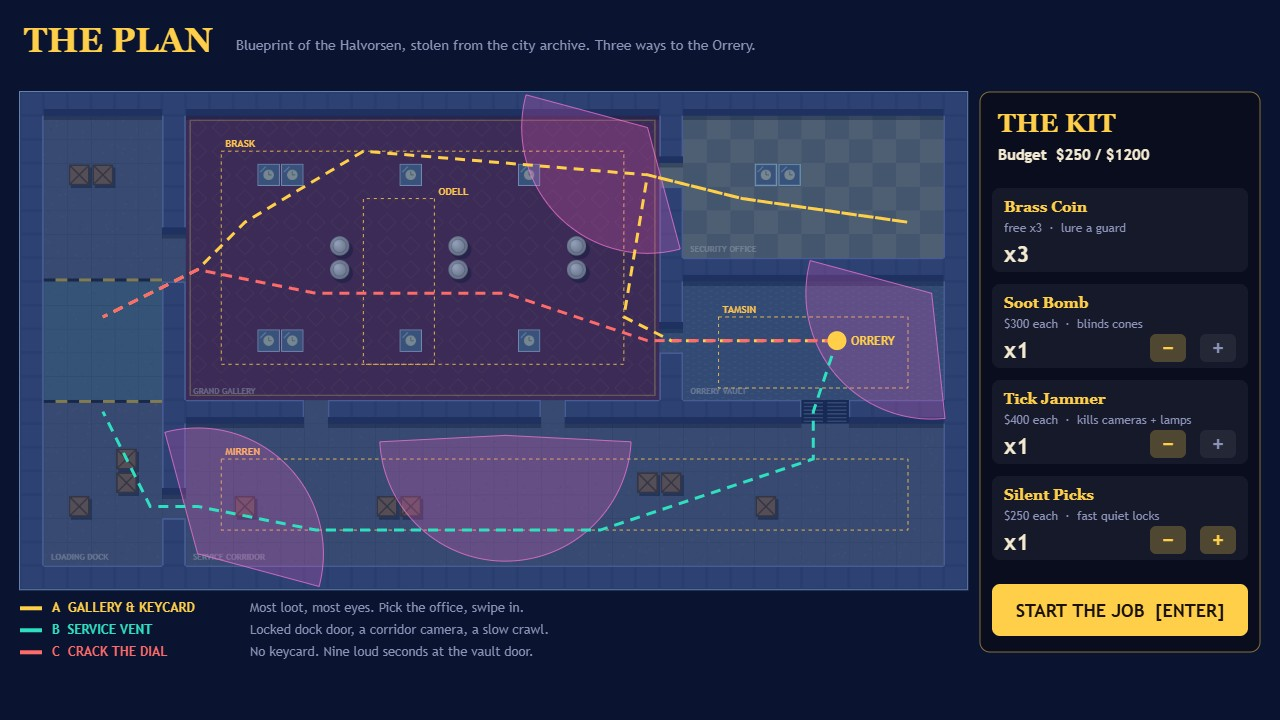
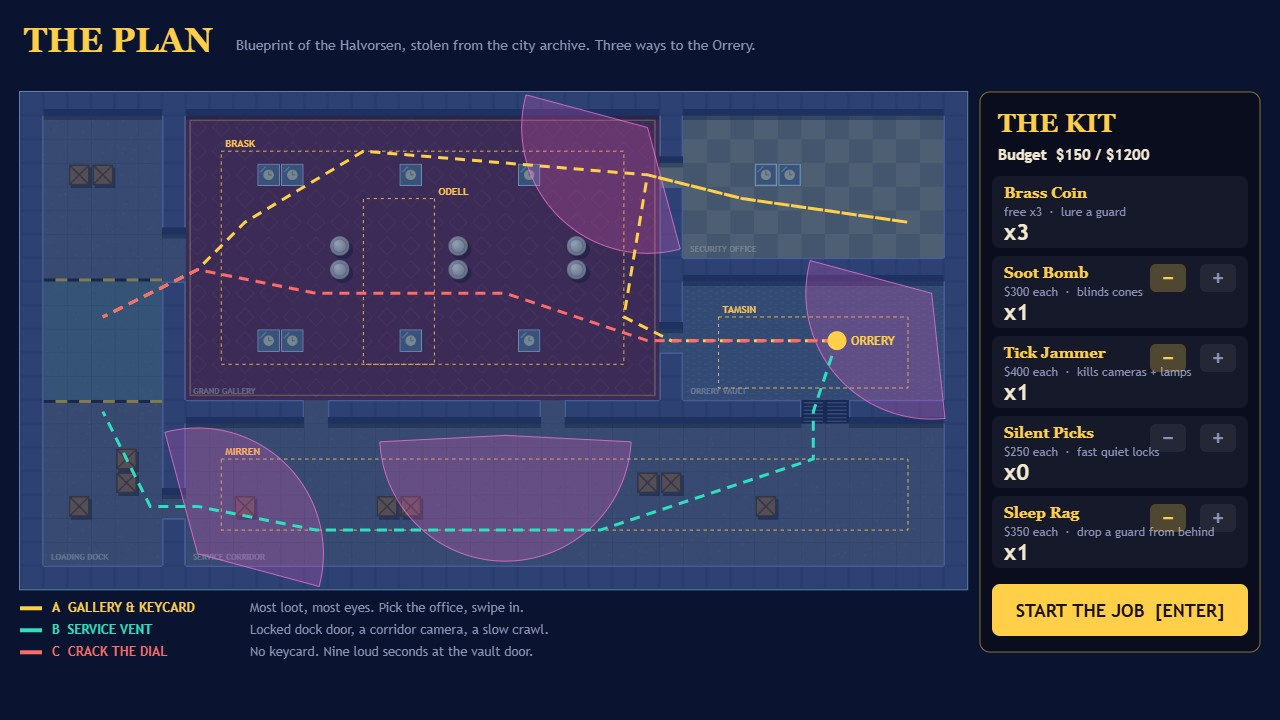
Sleep rag takedowns, cameras and guards report sleeping guards, shop layout

Changed region(s): [[0.7812, 0.2444, 0.9688, 0.7944]]

diff --git a/game/src/interactions.js b/game/src/interactions.js
@@ -3,7 +3,8 @@
 // that finishes each one. Some actions are loud while they run.
 import { PLAYER, TILE, TIMES } from './config.js';
 import { T } from './level.js';
-import { hearNoise } from './guards.js';
+import { hearNoise, knockOut, MODE } from './guards.js';
+import { angleDiff } from './geometry.js';
 
 function inZone(zone, x, y) {
   const tx = Math.floor(x / TILE);
@@ -25,6 +26,19 @@ function adjacentTile(museum, thief, kind) {
   return null;
 }
 
+/** An unaware guard the thief stands right behind (outside the front half of his view), or null. */
+function guardFromBehind(run) {
+  const { thief } = run;
+  for (const guard of run.guards) {
+    if (guard.down || guard.mode === MODE.ALERT || guard.sees) continue;
+    const dist = Math.hypot(thief.x - guard.x, thief.y - guard.y);
+    if (dist > PLAYER.interactRange) continue;
+    const toThief = Math.atan2(thief.y - guard.y, thief.x - guard.x);
+    if (Math.abs(angleDiff(toThief, guard.facing)) > Math.PI / 2) return guard;
+  }
+  return null;
+}
+
 /** The one action available right now, or null. */
 export function availableAction(run) {
   const { thief, museum, kit } = run;
@@ -32,6 +46,8 @@ export function availableAction(run) {
   if (inZone(museum.exitZone, thief.x, thief.y)) {
     return { id: 'escape', label: thief.carrying ? 'DRIVE OFF WITH THE ORRERY' : 'DRIVE OFF (no Orrery)', time: 0.6 };
   }
+  const victim = kit.rag > 0 ? guardFromBehind(run) : null;
+  if (victim) return { id: 'takedown', label: `SLEEP RAG ON ${victim.name.toUpperCase()}`, time: TIMES.takedown, guard: victim };
   if (!museum.orrery.taken && Math.hypot(museum.orrery.x - thief.x, museum.orrery.y - thief.y) < PLAYER.interactRange + 12) return { id: 'lift', label: 'LIFT THE ORRERY', time: TIMES.liftOrrery };
   const item = museum.loot.find((l) => !l.taken && near(l));
   if (item) return { id: 'grab', label: `TAKE ${item.name.toUpperCase()}  $${item.value}`, time: TIMES.grabLoot, item };
@@ -52,7 +68,11 @@ export function availableAction(run) {
 
 function complete(run, action) {
   const { museum, thief } = run;
-  if (action.id === 'grab') {
+  if (action.id === 'takedown') {
+    run.kit.rag -= 1;
+    knockOut(action.guard);
+    run.events.push({ kind: 'loot', text: `${action.guard.name} is out cold. Hide before someone finds him` });
+  } else if (action.id === 'grab') {
     action.item.taken = true;
     run.cash += action.item.value;
     run.events.push({ kind: 'loot', text: `+$${action.item.value} ${action.item.name}` });
@@ -87,6 +107,7 @@ export function updateInteraction(run, input, dt) {
   }
   if (!thief.busy || thief.busy.id !== action.id) thief.busy = { id: action.id, progress: 0, noiseTimer: 0 };
   thief.busy.progress += dt / action.time;
+  if (action.guard) action.guard.grabbed = true;
   if (action.loud) {
     thief.busy.noiseTimer -= dt;
     if (thief.busy.noiseTimer <= 0) {

diff --git a/game/src/render/screens.js b/game/src/render/screens.js
@@ -44,7 +44,7 @@ export function drawTitle(g, floorplan, time) {
   g.fillText('PRESS ENTER OR CLICK TO PLAN THE JOB', 640, 430);
   g.fillStyle = PALETTE.hudDim;
   g.font = '14px "Trebuchet MS", sans-serif';
-  g.fillText('WASD move  ·  SHIFT creep silently  ·  E hold to act  ·  1-4 pick tool  ·  CLICK throw', 640, 500);
+  g.fillText('WASD move  ·  SHIFT creep silently  ·  E hold to act  ·  1-5 pick tool  ·  CLICK throw', 640, 500);
   g.fillText('Stay in teal-hatched shadow. Read the cones. Watch the alarm meter.', 640, 524);
 }
 
@@ -152,23 +152,23 @@ function drawShop(g, loadout) {
   const buttons = [];
   TOOL_ORDER.forEach((id, i) => {
     const spec = TOOLS[id];
-    const by = y + 96 + i * 96;
+    const by = y + 84 + i * 80;
     g.fillStyle = 'rgba(255,255,255,0.05)';
     g.beginPath();
-    g.roundRect(x + 12, by, 256, 84, 8);
+    g.roundRect(x + 12, by, 256, 72, 8);
     g.fill();
     g.fillStyle = PALETTE.gold;
     g.font = 'bold 15px Georgia, serif';
-    g.fillText(spec.name, x + 24, by + 24);
+    g.fillText(spec.name, x + 24, by + 22);
     g.fillStyle = PALETTE.hudDim;
     g.font = '12px "Trebuchet MS", sans-serif';
-    g.fillText(spec.cost ? `$${spec.cost} each  ·  ${spec.info}` : `free x${spec.start}  ·  ${spec.info}`, x + 24, by + 44);
+    g.fillText(spec.cost ? `$${spec.cost} each  ·  ${spec.info}` : `free x${spec.start}  ·  ${spec.info}`, x + 24, by + 40);
     g.fillStyle = PALETTE.hudInk;
     g.font = 'bold 22px "Trebuchet MS", sans-serif';
-    g.fillText(`x${spec.start + (loadout[id] ?? 0)}`, x + 24, by + 74);
+    g.fillText(`x${spec.start + (loadout[id] ?? 0)}`, x + 24, by + 64);
     if (spec.cost) {
-      const minus = { x: x + 170, y: by + 50, w: 36, h: 28, id, delta: -1 };
-      const plus = { x: x + 220, y: by + 50, w: 36, h: 28, id, delta: 1 };
+      const minus = { x: x + 170, y: by + 8, w: 36, h: 28, id, delta: -1 };
+      const plus = { x: x + 220, y: by + 8, w: 36, h: 28, id, delta: 1 };
       for (const b of [minus, plus]) {
         const ok = b.delta < 0 ? (loadout[id] ?? 0) > 0 : left >= spec.cost;
         g.fillStyle = ok ? 'rgba(255,207,74,0.25)' : 'rgba(255,255,255,0.06)';

diff --git a/game/src/guards.js b/game/src/guards.js
@@ -99,6 +99,16 @@ export function updateGuards(run, dt) {
   const { museum, thief, alarm, smokes, power } = run;
   const pressure = alarmPressure(alarm);
   for (const guard of run.guards) {
+    if (guard.down) {
+      guard.fan = [];
+      continue;
+    }
+    if (guard.grabbed) {
+      guard.grabbed = false;
+      guard.sees = false;
+      continue;
+    }
+    spotDownedColleague(guard, run);
     const sight = guardSight(guard, thief, museum, smokes, power);
     guard.sees = sight > 0;
     if (guard.sees) {
@@ -164,10 +174,37 @@ function updateChase(guard, run, dt, pressure) {
   }
 }
 
+/** Put a guard to sleep with the rag: he drops where he stands and sees nothing from then on. */
+export function knockOut(guard) {
+  guard.down = true;
+  guard.mode = MODE.PATROL;
+  guard.sees = false;
+  guard.suspicion = 0;
+  guard.fan = [];
+  guard.path = [];
+}
+
+/** A guard who sees a sleeping colleague raises the alarm once and goes to look. */
+function spotDownedColleague(guard, run) {
+  for (const other of run.guards) {
+    if (!other.down || other.found) continue;
+    const dx = other.x - guard.x;
+    const dy = other.y - guard.y;
+    const dist = Math.hypot(dx, dy);
+    if (dist > GUARD.range * 0.8) continue;
+    if (Math.abs(angleDiff(Math.atan2(dy, dx), guard.facing)) > GUARD.fov / 2) continue;
+    if (!hasLineOfSight(run.museum, guard.x, guard.y, other.x, other.y, run.smokes)) continue;
+    other.found = true;
+    raiseAlarm(run.alarm, 20);
+    sendToInvestigate(guard, run.museum, other.x, other.y);
+    run.events.push({ kind: 'body', guard: guard.name, other: other.name });
+  }
+}
+
 /** A noise reaches every guard in its radius who is not already chasing. */
 export function hearNoise(run, x, y, radius) {
   for (const guard of run.guards) {
-    if (guard.mode === MODE.ALERT) continue;
+    if (guard.mode === MODE.ALERT || guard.down) continue;
     if (Math.hypot(guard.x - x, guard.y - y) <= radius) sendToInvestigate(guard, run.museum, x, y);
   }
 }

diff --git a/game/src/shots.js b/game/src/shots.js
@@ -4,7 +4,7 @@
 import { PHASE, createRun, stepRun } from './heist.js';
 import { buildMuseum, tileCentre, T } from './level.js';
 import { raiseAlarm } from './alarm.js';
-import { MODE } from './guards.js';
+import { MODE, knockOut } from './guards.js';
 
 const IDLE = { left: 0, right: 0, up: 0, down: 0, sneak: true, interact: false, selectTool: null, throwAt: null };
 
@@ -24,7 +24,7 @@ function settle(run, steps) {
 }
 
 function heistScene() {
-  const run = createRun({ smoke: 1, emp: 1, pick: 1 });
+  const run = createRun({ smoke: 1, emp: 1, rag: 1 });
   run.time = 96;
   run.cash = 650;
   run.museum.loot[0].taken = true;
@@ -45,8 +45,9 @@ function heistScene() {
   odell.mode = MODE.INVESTIGATE;
   odell.path = [];
   odell.lookTimer = 2;
-  place(mirren, 24, 15, 0);
-  mirren.waypoint = 1;
+  place(mirren, 28, 17, 0.4);
+  knockOut(mirren);
+  run.kit.rag = 0;
   place(tamsin, 30, 9, 0);
   tamsin.waypoint = 1;
   raiseAlarm(run.alarm, 41);
@@ -112,7 +113,7 @@ function getawayRun() {
 export function sceneFor(name) {
   if (name === 'heist') return { phase: PHASE.HEIST, run: heistScene() };
   if (name === 'lockdown') return { phase: PHASE.HEIST, run: lockdownScene() };
-  if (name === 'plan') return { phase: PHASE.PLAN, loadout: { smoke: 1, emp: 1, pick: 1 }, planMuseum: buildMuseum() };
+  if (name === 'plan') return { phase: PHASE.PLAN, loadout: { smoke: 1, emp: 1, rag: 1 }, planMuseum: buildMuseum() };
   if (name === 'getaway') return { phase: PHASE.ESCAPED, run: getawayRun() };
   if (name === 'title') return { phase: PHASE.TITLE };
   return null;

diff --git a/game/src/render/actors.js b/game/src/render/actors.js
@@ -268,7 +268,7 @@ export function drawPatrolHints(g, guards, time) {
   g.setLineDash([2, 7]);
   g.lineDashOffset = -time * 12;
   for (const guard of guards) {
-    if (guard.mode !== 'patrol') continue;
+    if (guard.mode !== 'patrol' || guard.down) continue;
     const a = guard.route[guard.waypoint];
     const b = guard.route[(guard.waypoint + 1) % guard.route.length];
     g.beginPath();
@@ -284,8 +284,40 @@ export function drawPatrolHints(g, guards, time) {
   g.restore();
 }
 
+/** A guard put to sleep: slumped on his side, cap off, a slow "z" drifting up. */
+function drawSleepingGuard(g, guard) {
+  g.save();
+  g.translate(guard.x, guard.y);
+  g.rotate(guard.facing + Math.PI / 2);
+  g.fillStyle = 'rgba(0,0,0,0.4)';
+  g.beginPath();
+  g.ellipse(2, 3, 15, 9, 0, 0, Math.PI * 2);
+  g.fill();
+  g.fillStyle = PALETTE.guard;
+  g.beginPath();
+  g.ellipse(0, 0, 14, 8, 0, 0, Math.PI * 2);
+  g.fill();
+  g.fillStyle = '#e6c9a0';
+  g.beginPath();
+  g.arc(12, 0, 5, 0, Math.PI * 2);
+  g.fill();
+  g.fillStyle = '#111a33';
+  g.beginPath();
+  g.arc(20, 4, 4, 0, Math.PI * 2);
+  g.fill();
+  g.restore();
+  g.fillStyle = guard.found ? PALETTE.danger : '#9fb4ff';
+  g.font = 'bold 12px "Trebuchet MS", sans-serif';
+  g.textAlign = 'center';
+  g.fillText(guard.found ? 'FOUND!' : 'z z', guard.x, guard.y - 16);
+}
+
 export function drawGuards(g, guards) {
   for (const guard of guards) {
+    if (guard.down) {
+      drawSleepingGuard(g, guard);
+      continue;
+    }
     g.save();
     g.translate(guard.x, guard.y);
     g.scale(1.2, 1.2);

diff --git a/game/src/cameras.js b/game/src/cameras.js
@@ -32,11 +32,28 @@ function cameraSees(camera, run) {
   return light < 0.22 ? 0 : light;
 }
 
+/** A camera that sweeps over a guard left asleep in the open reports him: drag-free bodies are a risk. */
+function spotSleepingGuard(camera, run) {
+  for (const guard of run.guards) {
+    if (!guard.down || guard.found) continue;
+    const dx = guard.x - camera.x;
+    const dy = guard.y - camera.y;
+    if (Math.hypot(dx, dy) > CAMERA.range) continue;
+    if (Math.abs(angleDiff(Math.atan2(dy, dx), camera.angle)) > CAMERA.fov / 2) continue;
+    if (!hasLineOfSight(run.museum, camera.x, camera.y, guard.x, guard.y, run.smokes)) continue;
+    guard.found = true;
+    raiseAlarm(run.alarm, 20);
+    const responder = nearestCalmGuard(run, guard.x, guard.y);
+    if (responder) sendToInvestigate(responder, run.museum, guard.x, guard.y);
+    run.events.push({ kind: 'body', guard: `Camera ${camera.id + 1}`, other: guard.name });
+  }
+}
+
 function nearestCalmGuard(run, x, y) {
   let best = null;
   let bestDist = Infinity;
   for (const guard of run.guards) {
-    if (guard.mode === MODE.ALERT) continue;
+    if (guard.mode === MODE.ALERT || guard.down) continue;
     const d = Math.hypot(guard.x - x, guard.y - y);
     if (d < bestDist) {
       bestDist = d;
@@ -57,6 +74,7 @@ export function updateCameras(run, dt) {
       camera.fan = [];
       continue;
     }
+    spotSleepingGuard(camera, run);
     const sight = cameraSees(camera, run);
     camera.sees = sight > 0;
     if (camera.sees) {

diff --git a/game/src/render/hud.js b/game/src/render/hud.js
@@ -121,6 +121,17 @@ function drawToolIcon(g, id, x, y) {
     g.lineTo(x + 6, y + 8);
     g.stroke();
     g.lineWidth = 1;
+  } else if (id === 'rag') {
+    g.fillStyle = '#e8e2d0';
+    g.beginPath();
+    g.moveTo(x - 7, y - 5);
+    g.quadraticCurveTo(x, y - 9, x + 7, y - 4);
+    g.lineTo(x + 5, y + 7);
+    g.quadraticCurveTo(x - 1, y + 3, x - 6, y + 7);
+    g.closePath();
+    g.fill();
+    g.fillStyle = '#7fb0ff';
+    g.fillRect(x - 2, y - 2, 4, 4);
   } else {
     g.strokeStyle = '#d9dbe6';
     g.lineWidth = 2;
@@ -136,7 +147,7 @@ function drawToolIcon(g, id, x, y) {
 
 function drawToolBelt(g, run) {
   const y = VIEW.height - 58;
-  panel(g, 12, y, 484, 48);
+  panel(g, 12, y, 602, 48);
   TOOL_ORDER.forEach((id, i) => {
     const x = 20 + i * 118;
     const spec = TOOLS[id];
@@ -247,7 +258,7 @@ function drawFinale(g, run) {
   g.textAlign = 'center';
   g.fillStyle = caught ? '#ff5a5a' : PALETTE.gold;
   g.font = 'bold 54px Georgia, serif';
-  g.fillText(caught ? 'CAUGHT' : 'CLEAN GETAWAY', VIEW.width / 2, 362);
+  g.fillText(caught ? 'CAUGHT' : run.thief.carrying ? 'CLEAN GETAWAY' : 'WALKED AWAY', VIEW.width / 2, 362);
   g.fillStyle = PALETTE.hudInk;
   g.font = 'bold 16px "Trebuchet MS", sans-serif';
   g.fillText(caught ? run.endReason.toUpperCase() : `THE VAN PULLS AWAY WITH $${run.cash.toLocaleString('en-US')}`, VIEW.width / 2, 394);

diff --git a/game/src/config.js b/game/src/config.js
@@ -58,6 +58,7 @@ export const TOOLS = {
   smoke: { key: '2', name: 'Soot Bomb', cost: 300, start: 0, range: 200, radius: 58, seconds: 7, info: 'blinds cones' },
   emp: { key: '3', name: 'Tick Jammer', cost: 400, start: 0, range: 240, radius: 150, seconds: 8, info: 'kills cameras + lamps' },
   pick: { key: '4', name: 'Silent Picks', cost: 250, start: 0, info: 'fast quiet locks' },
+  rag: { key: '5', name: 'Sleep Rag', cost: 350, start: 0, info: 'drop a guard from behind' },
 };
 
 export const PLAN_BUDGET = 1200;
@@ -70,6 +71,7 @@ export const TIMES = {
   liftOrrery: 2.2,
   useKeycard: 0.8,
   cutPower: 1.4,
+  takedown: 1.3,
 };
 
 export const PALETTE = {

diff --git a/game/src/heist.js b/game/src/heist.js
@@ -59,6 +59,7 @@ function handleEvents(run) {
       run.spottedCount += 1;
       toast(run, `${event.guard.toUpperCase()} SPOTTED YOU`, 'danger');
     } else if (event.kind === 'camera') toast(run, 'CAMERA HAS EYES ON YOU', 'danger');
+    else if (event.kind === 'body') toast(run, `${event.guard.toUpperCase()} FOUND ${event.other.toUpperCase()} ASLEEP`, 'danger');
     else if (event.kind === 'loot') toast(run, event.text, 'gold');
     else if (event.kind === 'orrery') {
       toast(run, event.text, 'gold');

diff --git a/game/src/main.js b/game/src/main.js
@@ -53,7 +53,7 @@ function updateMenus(frame) {
       playSounds(['ui']);
     }
     for (const code of frame.pressed) {
-      const id = { Digit2: 'smoke', Digit3: 'emp', Digit4: 'pick' }[code];
+      const id = { Digit2: 'smoke', Digit3: 'emp', Digit4: 'pick', Digit5: 'rag' }[code];
       if (id && TOOLS[id].cost) changeLoadout(id, 1);
       if (code === 'Backspace') app.loadout = {};
     }

diff --git a/game/src/tools.js b/game/src/tools.js
@@ -5,7 +5,7 @@ import { TOOLS } from './config.js';
 import { hasLineOfSight } from './geometry.js';
 import { hearNoise } from './guards.js';
 
-export const TOOL_ORDER = ['coin', 'smoke', 'emp', 'pick'];
+export const TOOL_ORDER = ['coin', 'smoke', 'emp', 'pick', 'rag'];
 
 /** The power grid: lamps and cameras, the office loop timer and active jammer zones. */
 export function createPower() {

diff --git a/game/src/input.js b/game/src/input.js
@@ -2,7 +2,7 @@
 // throws, and the cursor mapped from the scaled canvas back into museum pixels.
 import { VIEW } from './config.js';
 
-const TOOL_KEYS = { Digit1: 'coin', Digit2: 'smoke', Digit3: 'emp', Digit4: 'pick' };
+const TOOL_KEYS = { Digit1: 'coin', Digit2: 'smoke', Digit3: 'emp', Digit4: 'pick', Digit5: 'rag' };
 
 export function createInput(canvas) {
   const held = new Set();
